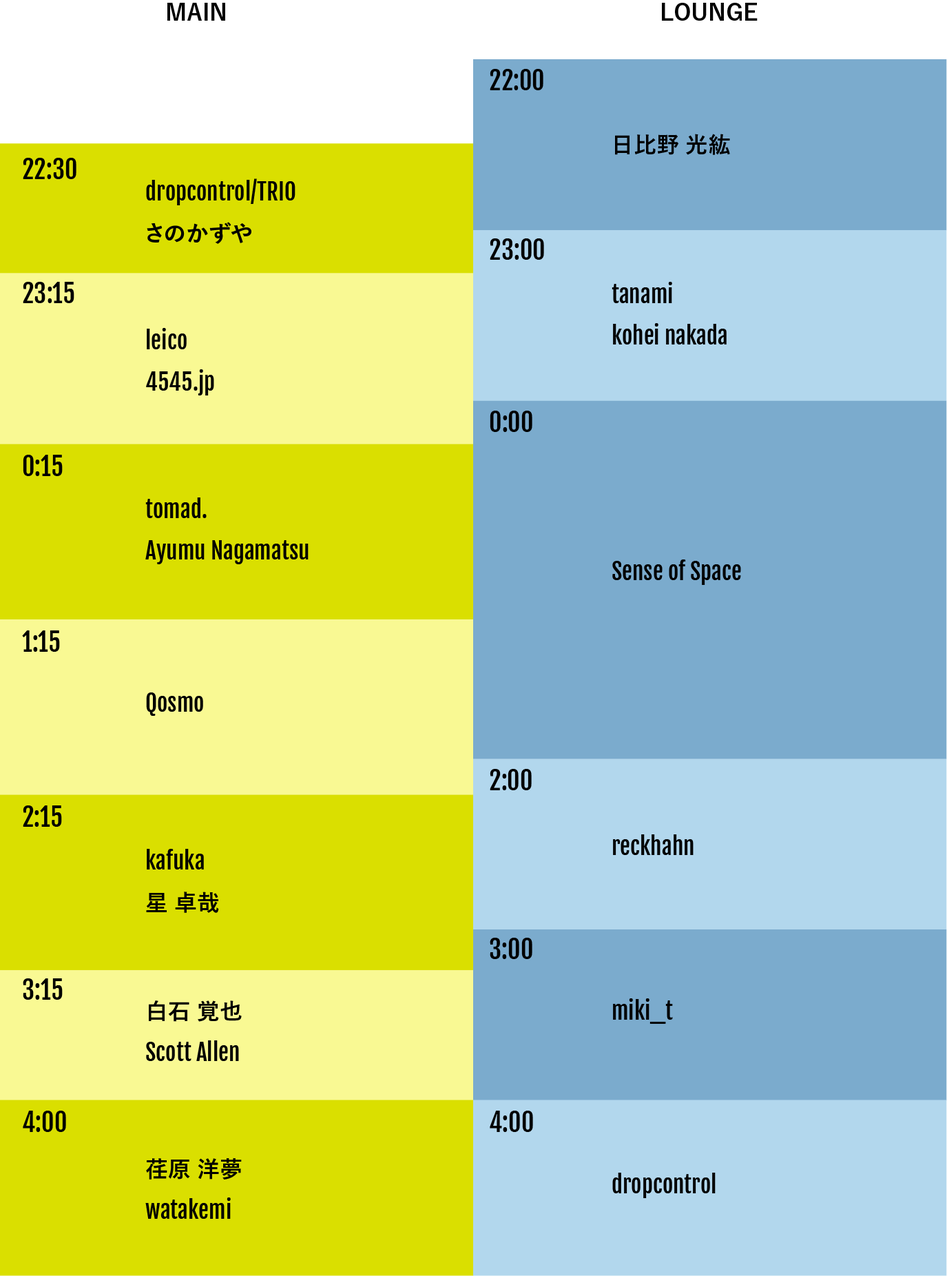
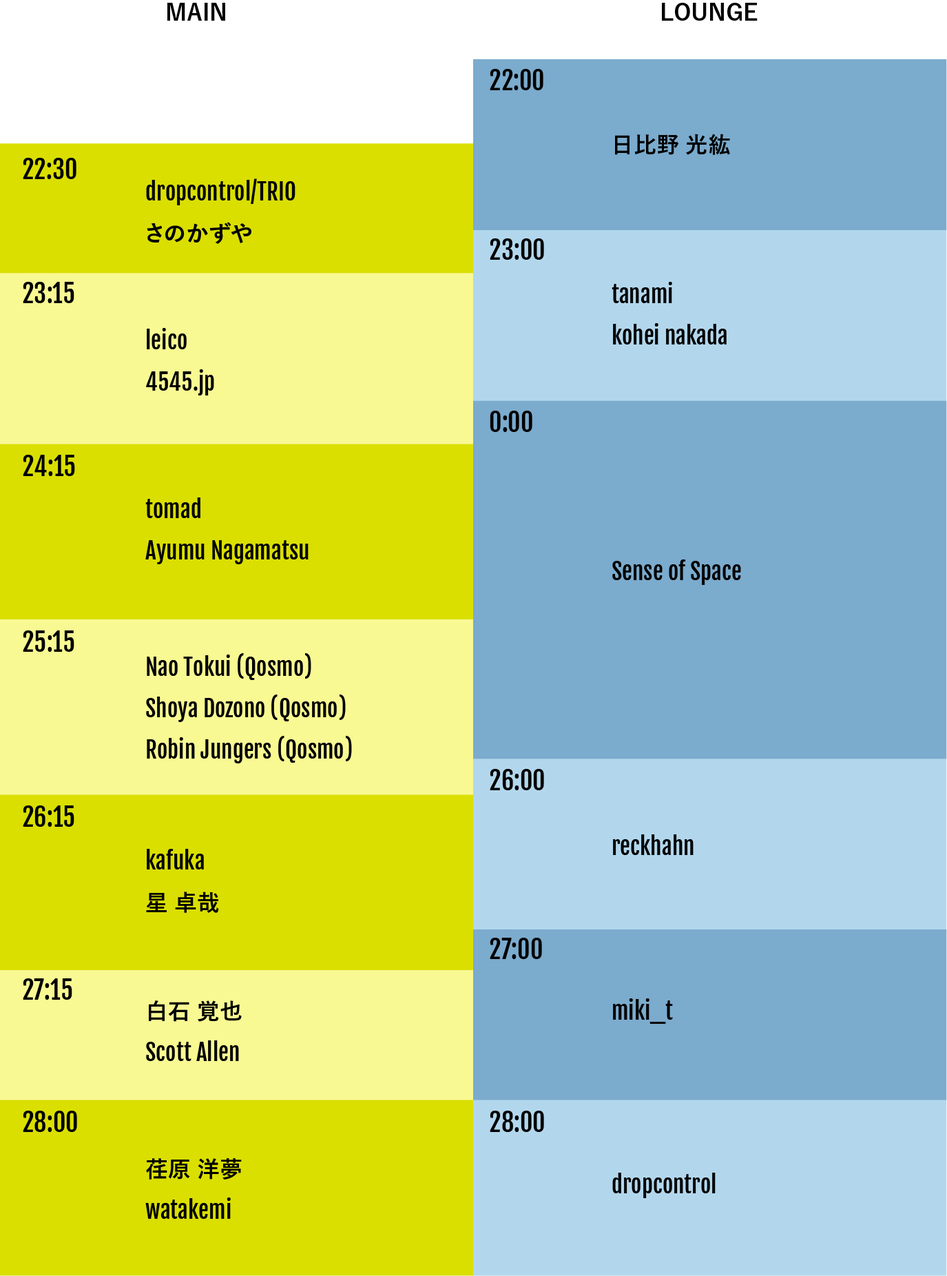
update static information.

diff --git a/src/assets/index.html b/src/assets/index.html
@@ -31,11 +31,6 @@
 <body>
 <header class="header">
   <div class="logo"><a href="http://nxpclab.info/" target="_blank"><img src="./images/logo.png" alt="NxPC.Lab"></a></div>
-  <div class="logo_20th">
-    <a href="http://www.iamas.ac.jp/20th/" target="_blank">
-      <img src="./images/logo_iamas20.png" alt="iamas 20th">
-    </a>
-  </div>
   <nav class="navi">
     <ul class="horlist">
       <li class="horlist__item"><a href="#1">Info</a></li>
@@ -46,7 +41,6 @@
   </nav>
 </header><!-- /header -->
 <main id="0" class="main">
-  <div id="gl-scene"></div>
   <section class="container box-toparea" id="toparea">
     <div class="titleimg">
       <img src="./images/title.svg">
@@ -57,19 +51,19 @@
       <h2>Info</h2>
       <div class="content">
         <h3>NxPC.Lab</h3>
-        <p>IAMAS 20周年記念イベントに関連して、NxPC.Liveをスペシャルエディションで開催。メインゲストにAOKI Takamasa、真鍋大度を迎え、その他IAMAS卒業生を中心に豪華出演者によるDJ、VJ、ライブパフォーマンスをお送りします。</p>
         <p>NxPC.Labは、クラブやイベントにおけるアーティストと観客の相互作用によってもたらされる場の臨場感を拡大し、ネットへも拡散させるためのメディアテクノロジーの実現を目指した研究機関です。音楽体験を拡張し、音楽空間におけるコミュニケーションを次のステージへ導くための研究開発と実践の場としてのイベントNxPC.Liveを実施しています。近年は、クラブのみならず、走行する列車内でイベントを展開するなど、その活動の場を拡大しています。</p>
+        <p>今回は、ゲストにAIを用いた多彩な表現を手がけるQosmoのDJ/VJ、インターネットレーベルMaltine Recordsを主催するtomad氏、IAMAS卒業生で国内外で活躍するビートメーカーのkafuka氏を迎えたラインナップ。加えて、IAMASの新入生や現役生、卒業生がライブ、DJ、VJ、会場デコなど多用な表現をクラブにインストールします。</p>
         <h3>Ticket</h3>
-        <p><strong>ADV:</strong>&yen; 2,000 [ <a claas="buy" href="http://peatix.com/event/240752" target="_blank">BUY</a> ]</p>
+        <p><strong>ADV:</strong>&yen; 2,000</p>
         <p><strong>DOOR:</strong>&yen; 2,500</p>
         <h3>Date / Time</h3>
-        <p><strong>Date:</strong>2017.3.11 sat</p>
+        <p><strong>Date:</strong>2018.3.20 Tue</p>
         <p><strong>Open:</strong>21:30<strong>Start:</strong>22:00<strong>Close:</strong>29:00</p>
         <h3>Place</h3>
         <p><strong>CIRCUS&nbsp;Tokyo</strong></p>
         <p>〒150-0002 東京都渋谷区渋谷3-26-16 第5叶ビル 1F,B1F<br>
-          TEL:<a href="tel:0364197520">03-6419-7520</a></p>
-        <p>WEB:<a href="http://circus-tokyo.jp/" target="_blank">http://circus-tokyo.jp/</a></p>
+          TEL: <a href="tel:0364197520">03-6419-7520</a></p>
+        <p>WEB: <a href="http://circus-tokyo.jp/" target="_blank">http://circus-tokyo.jp/</a></p>
         <h3>Social</h3>
         <ul class="sociallink">
           <li class="sociallink__item">
@@ -100,39 +94,43 @@
         <h2>Sound</h2>
         <ul>
           <li>
-            <div class="thumb"><img src="./images/thumb_aoki.png" alt="AOKI Takamasa"></div>
+            <div class="thumb"><img src="./images/thumb_naoto.jpg" alt="Nao Tokui (Qosmo)"></div>
             <div class="profile">
-              <h3>AOKI Takamasa</h3>
-              <p>1976年大阪府出身。現在は大阪在住。 Born in Osaka, 1976. Presently living in Osaka. RHYTHM + PHOTOGRAPHY
-                <a href="http://www.aokitakamasa.com" target="_blank">http://www.aokitakamasa.com</a></p>
+              <h3>Nao Tokui (Qosmo)</h3>
+              <p>DJ/メディアアーティスト. 人工知能の研究者というバックグラウンドを持ち、AIを用いたさまざまな表現に取り組む. 音楽面ではPROGRESSIVE FOrM, op.discなどのレーベルでの活動や故Nujabesとのコラボレーションで知られている.  近作にAI DJとのBack to Backを行うAI DJ Project, AIを用いたBrian Enoのミュージックビデオの制作など. Qosmo代表.<br>
+                <a href="http://www.naotokui.net/" target="_blank">http://www.naotokui.net/</a></p>
             </div>
           </li>
           <li>
-            <div class="thumb"><img src="./images/thumb_daito.png" alt="Daito Manabe"></div>
+            <div class="thumb"><img src="./images/thumb_tomad.jpg" alt="tomad"></div>
             <div class="profile">
-              <h3>Daito Manabe</h3>
-              <p>身近な現象や素材を異なる目線で捉え直し、組み合わせることで作品を制作。高解像度、高臨場感といったリッチな表現を目指すのでなく、注意深く観察することにより発見できる現象、身体、プログラミング、コンピュータそのものが持つ本質的な面白さに着目している。</p>
+              <h3>tomad</h3>
+              <p>2005年、当時15歳でインターネットレーベル「Maltine Records」を開始。これまでに150タイトルをリリース。同レーベルは、「The Japan Times」「MTV81」などの海外メディアでも紹介され、ダンスポップミュージックの新しいシーンと、東京の同時代のイメージを象徴する存在として注目されている。近年には、ニューヨークやロンドンでもイベントを開催し、海外アーティストの楽曲リリースも多数。2015年には設立10周年を記念し、レーベルの活動をまとめた「Maltine Book」（スイッチパブリッシング）を刊行。現在は、アパレルやアイドルとのコラボ、楽曲のリミックスプロデュース等も手がけている。</p>
             </div>
           </li>
           <li>
             <div class="thumb"><img src="./images/thumb_kafuka.png" alt="Kafuka"></div>
             <div class="profile">
-              <h3>Kafuka</h3>
-              <p class="fsmall">大阪を拠点に活動するビートメーカー。ギターサウンドや自然の音、サンプリング、音響プログラミングなども取りいれ 様々な音をコラージュしオリジナリティあるサウンドを表現。 エレクトロニック・ミュージックを軸に新たな表現や世界観を探究している。2016年に京都の電子音響実験音楽レーベル shrine.jp より多面的な表情が詰まった 音響作品、アルバム「Polyhedron」をリリース。2017年にはドイツ・ベルリンのレーベル Project:Mooncircle 15周年 コンピレー ションに参加。5月に同レーベルよりEP「Laws of Nature」のリリースが決まっている。また、NTT[ICC]でのサウンドインスタレーション作品の展示や、iPhoneアプリなどメディアを 用いた作品を展開する。</p>
+              <h3>kafuka</h3>
+              <p class="fsmall">大阪を拠点に活動するビートメーカー。ギターサウンドや自然の音、サンプリング、音響プログラミングなども取りいれ 様々な音をコラージュしオリジナリティあるサウンドを表現。エレクトロニック・ミュージックを軸に新たな表現や世界観を探究している。2016年に京都の電子音響実験音楽レーベル shrine.jp より多面的な表情が詰まった 音響作品、アルバム「Polyhedron」をリリース。2017年にはドイツ・ベルリンのレーベル Project Mooncircle 15周年 コンピレー ションに参加。5月に同レーベルよりEP「Laws of Nature」をリリース。世界各地各メディアより多大な反響を得る。また、NTT[ICC]でのサウンドインスタレーション作品の展示や、iPhoneアプリなどメディアを 用いた作品を展開する。今回のパフォーマンスではiPhoneアプリ"Sense of Space"を使ったAmbient楽曲もオープニングに演奏する。<br>
+                <a href="http://kafuka-music.com/" target="_blank">http://kafuka-music.com/</a><br>
+                <a href="http://nxpclab.info/SOS/" target="_blank">http://nxpclab.info/SOS/</a>
+              </p>
             </div>
           </li>
           <li>
-            <div class="thumb"><img src="./images/thumb_poison.png" alt="POISON"></div>
+            <div class="thumb"><img src="./images/thumb_dc3.png" alt="dropcontrol/TRIO"></div>
             <div class="profile">
-              <h3>POISON</h3>
-              <p>THEY ARE COMING BACK!!!  NxPC.labの初期メンバーとしてフロアを賑やかしていた「Drag Queen × Technology」ユニットが5年振りに再結成！ 愛の技術開発NIGHTをあなたと一緒にxoxo<br>POISON: キャシー(DQ)、マーサ・エストラゴン(DQ)、YOME(VJ)、Motoi Shimizu(Programming)</p>
+              <h3>dropcontrol/TRIO</h3>
+              <p>dropcontrolは大和比呂志によるex-Jazzプロジェクト。今回はDrumによしじまともひと、VJにさのかずやを向え、Drum, PC/Gt, VJの変則トリオで登場。<br>
+                <a href="http://nxpclab.info/SOS/" target="_blank">http://dropcontrol.com</a></p>
             </div>
           </li>
           <li>
-            <div class="thumb"><img src="./images/thumb_shiratori.png" alt="kei shiratori"></div>
+            <div class="thumb"><img src="./images/thumb_dc1.png" alt="dropcontrol"></div>
             <div class="profile">
-              <h3>kei shiratori</h3>
-              <p>東京工科大学メディア学部卒業、国際情報科学芸術アカデミー［IAMAS］DSPコース卒業。2012年「Matilde inc」を設立。心体の拡張をテーマに、先端技術を用いた作品を制作。人とメディアの可能性に注目し、音楽、映像、アプリケーション、プロダクト開発など幅広い分野で活動を行う。</p>
+              <h3>dropcontrol</h3>
+              <p>今回はメインではファーストオーダーでライブをやりますが、ラウンジで最後にDJもやります。いつものようにBPM併せフル無視で好きな曲を好きなように混ぜていきます。最後はたぶんカールストーンとドラムのマッシュアップで蛍の光の代りに。</p>
             </div>
           </li>
           <li>
@@ -141,10 +139,9 @@
               <h3>leico</h3>
               <p>
                 <a href="http://leico.github.io" target="_blank">http://leico.github.io</a><br>
-                <a href="https://cycling74.com/author/58260/" target="_blank">https://cycling74.com/author/58260/</a><br>
-                <a href="http://rittor-music.jp/sound/magazine/max/62913" target="_blank">http://rittor-music.jp/sound/magazine/max/62913</a><br>
+                <a href="https://leico.github.io/TechnicalNote/" target="_blank">https://leico.github.io/TechnicalNote/</a><br>
                 <a href="http://www.maxforlive.com/profile/user/leico" target="_blank">http://www.maxforlive.com/profile/user/leico</a><br>
-                <a href="https://twitter.com/1_0101" target="_blank">twitter:1_0101</a>
+                事前にすべてプログラムしてしまって、それを流すのでもよいのではなかろうかという問いは、しかし我々はジュークボックスを聴きにクラブに行くわけではないという結論に達した。
                 </p>
             </div>
           </li>
@@ -152,58 +149,37 @@
             <div class="thumb"><img src="./images/thumb_reck.png" alt="reckhahn"></div>
             <div class="profile">
               <h3>reckhahn</h3>
-              <p>1987年韓国生まれ。大学で彫刻を専攻。情報科学芸術大学院大学(IAMAS)修了後、慶應義塾大学SFC博士課程在学中。</p>
+              <p>情報科学芸術大学院大学(IAMAS)修了後、慶應義塾大学SFC博士課程在学中。アナログメディアよるフィジカルインタラクションの研究を行っている。</p>
             </div>
           </li>
           <li>
-            <div class="thumb"><img src="./images/thumb_mikit.png" alt="miki_t"></div>
+            <div class="thumb"><img src="./images/thumb_mikit.jpg" alt="miki_t"></div>
             <div class="profile">
               <h3>miki_t</h3>
-              <p>IAMAS第14期生。<br>
+              <p>IAMAS第14期生。現在はデザイナとして東京を拠点に就労中。フロアをデザインするDJをします。<br>
                 <a href="http://mikingt.net/" target="_blank">http://mikingt.net/</a></p>
             </div>
           </li>
           <li>
-            <div class="thumb"><img src="./images/thumb_okubo.png" alt="大久保雅基"></div>
+            <div class="thumb"><img src="./images/thumb_ehara.jpg" alt="荏原洋夢"></div>
             <div class="profile">
-              <h3>大久保雅基</h3>
-              <p>1988年宮城県仙台市出身。洗足学園音楽大学音楽・音響デザインコース卒業、情報科学芸術大学院大学メディア表現研究科修士課程修了。電子音楽の作曲家。テクノロジーと人の関係性によって生まれる音楽を探求している。CCMC2010にてACSM116賞受賞。Musica Viva Festival 2010/2013、MUSLAB2015、ISEA2015、第22回学生CGコンテスト等に入選。</p>
+              <h3>荏原洋夢</h3>
+              <p>工事現場の旗を降るLEDマトリックスの気持ち</p>
             </div>
           </li>
           <li>
-            <div class="thumb"><img src="./images/thumb_quintet.png" alt="dropcontrol/QUINTET"></div>
+            <div class="thumb"><img src="./images/thumb_mitsu.jpg" alt="日比野光紘"></div>
             <div class="profile">
-              <h3>dropcontrol/QUINTET</h3>
-              <p>大和比呂志(ギタリスト、テナーサックス奏者、音楽家。現在IAMASに在学。三輪眞弘に師事しポリ/クロスリズムに着目した研究を進めている)主催のex-Jazzバンド。今回はfeat. ベース永松歩、ドラムよしじまともひと、テナーサックス塙健介、アルトサックス津上研太を迎えてクインテットで編成。<br>
-                <a href="http://www.dropcontrol.com/" target="_blank">http://www.dropcontrol.com/</a></p>
+              <h3>日比野光紘</h3>
+              <p>岐阜県出身、現在IAMASの修士1年。組み込みエンジニアとしてラップトップをカタカタしながら、細々とポップスやベースミュージックを布教する活動をしています。岐阜でくすぶっている心を渋谷で解き放ちたい！どうぞ宜しくお願い致します。<br>
+                website: <a href="http://nasustim.com" target="_blank">http://nasustim.com</a></p>
             </div>
           </li>
           <li>
-            <div class="thumb"><img src="./images/thumb_yuzawa.png" alt="Taiki YUZAWA"></div>
+            <div class="thumb"><img src="./images/thumb_mtana.jpg" alt="tanami"></div>
             <div class="profile">
-              <h3>Taiki YUZAWA</h3>
-              <p>Play Electronica Music.</p>
-            </div>
-          </li>
-          <li>
-            <div class="thumb"><img src="./images/thumb_sanokazuya.png" alt="さのかずや"></div>
-            <div class="profile">
-              <h3>さのかずや</h3>
-              <p>ちょうど20周年の卒業生として、キラキラな諸先輩方の前座を務めさせて頂きます。目指せ信長、時代の勇者。40周年に呼ばれるように頑張っていきたい。</p>
-            </div>
-          </li>
-          <li>
-            <div class="thumb"><img src="./images/thumb_oshima.png" alt="おおしまたくろう"></div>
-            <div class="profile">
-              <h3>おおしまたくろう</h3>
-              <p>「PLAY（遊ぶ、演奏する、演じる、協力する...）」をテーマに身近な道具を改変した自作楽器を制作。音楽や楽器の名を借りたユーモアや遊びによる少し不思議なサウンドパフォーマンスを通して、日常や表現行為の中で「失敗」とされるもの（逸脱、ノイズ、障害...）の存在を肯定する。</p>
-            </div>
-          </li>
-          <li>
-            <div class="thumb"><img src="./images/thumb_sugi.png" alt="木ミ"></div>
-            <div class="profile">
-              <h3>木ミ</h3>
-              <p>CLUB308 / 大垣ナンヤッターッケ の一員改め、DJ Without Abstruct による鬼のトラックパッドDJ</p>
+              <h3>tanami</h3>
+              <p>IAMAS M1 　26歳にして初DJ　頑張ります。 大学にてprocessingやopenframeworksなどを用いた映像表現を模索。卒業後、広告代理店で営業に従事し、2017年IAMAS入学。</p>
             </div>
           </li>
         </ul>
@@ -212,31 +188,17 @@
         <h2>Visual</h2>
         <ul>
           <li>
-            <div class="thumb"><img src="./images/thumb_hori.png" alt="堀井哲史"></div>
+            <div class="thumb"><img src="./images/thumb_hoshi.png" alt="星卓哉"></div>
             <div class="profile">
-              <h3>堀井哲史</h3>
-              <p class="fsmall">ビジュアルアーティスト/プログラマ。ライゾマティクス所属。東京造形大学デザイン学科、国際情報科学芸術アカデミー［IAMAS］DSPコース卒。 既存のソフトウェアやツールに頼らない、コンピュータならではの動的な絵作りを着想からプログラミングまで一貫して行い、インタラクティヴ作品、映像制作を、エンターテインメント、アート等様々なフィールドで行っている。プログラミング/デザインを担当した『Perfume Global Site Project』は 第16回文化庁メディア芸術祭エンターテイメント部門大賞、カンヌ国際広告祭等多数受賞。また、2015年ミラノ万博日本館シーン5の展示テクニカルディレクションを担当するなど、形態にとらわれない制作活動している。</p>
+              <h3>星卓哉</h3>
+              <p>コンピュータを用いた表現の本質をプログラミングによる使役と捉え、 とりわけ、リアルタイム、動的生成に重きを置いた表現を行う。近年は、クリエイティブ・コーディングにおける、フレームワークや制作環境の一般化、標準化により引き起こされる表現のコモディティーに対し、表現の本質とは何かを考え、常に逸脱した態度で臨むことを信条としている。</p>
             </div>
           </li>
           <li>
-            <div class="thumb"><img src="./images/thumb_motoi.png" alt="清水 基"></div>
+            <div class="thumb"><img src="./images/thumb_sano.jpg" alt="さのかずや"></div>
             <div class="profile">
-              <h3>清水 基</h3>
-              <p>IAMAS DSPコース卒業、School for Poetic Computation 第1期生。IT系企業数社に務めた後、2015年よりプロダクションチーム backspacetokyo を共同主催。コーディングカルチャーに根ざした表現に従事している。</p>
-            </div>
-          </li>
-          <li>
-            <div class="thumb"><img src="./images/thumb_hoshi.png" alt="星 卓哉"></div>
-            <div class="profile">
-              <h3>星 卓哉</h3>
-              <p class="fsmall">蔵人／プログラマ。玉村本店所属。情報科学芸術大学院大学［IAMAS］修了。コンピュータを用いた表現の本質をプログラミングによる使役と捉え、リアルタイム、動的生成に重きを置いた表現を行う。近年は、クリエイティブ・コーディングにおける制作環境の標準化により引き起こされる表現のコモディティ化に対し、表現の本質を問い直し、常に逸脱した態度で臨むことを信条としてきた。現在は一念発起し杜氏を目指して修行中。</p>
-            </div>
-          </li>
-          <li>
-            <div class="thumb"><img src="./images/thumb_noriko.png" alt="noriko matsumoto"></div>
-            <div class="profile">
-              <h3>noriko matsumoto</h3>
-              <p>1980年1月京都生まれ　舞台や広告などで、映像エンジニア/プログラマーとして活動。現在は育休がてらTokyo No1 Geek Momとして、キッチンプログラマー活動中</p>
+              <h3>さのかずや</h3>
+              <p>そろそろ出演者紹介欄にポエムを書くのも痛々しい年齢になってきました。</p>
             </div>
           </li>
           <li>
@@ -247,32 +209,31 @@
             </div>
           </li>
           <li>
-            <div class="thumb"><img src="./images/thumb_ayumu.png" alt="Ayumu Nagamatsu"></div>
+            <div class="thumb"><img src="./images/thumb_nagat.jpg" alt="Ayumu Nagamatsu"></div>
             <div class="profile">
               <h3>Ayumu Nagamatsu</h3>
-              <p>リアルタイム生成のVJ/作品制作をおこなう。線や点のみのプリミティブな表現に注力。<br>
-                <a href="http://ayumu-nagamatsu.com" target="_blank">http://ayumu-nagamatsu.com</a></p>
+              <p>現在、職を募集している。 <a href="https://ayumu-nagamatsu.com/" target="_blank">https://ayumu-nagamatsu.com</a>/</p>
             </div>
           </li>
           <li>
-            <div class="thumb"><img src="./images/thumb_megane.png" alt="めがね&ボブ"></div>
+            <div class="thumb"><img src="./images/thumb_watakemi.png" alt="watakemi"></div>
             <div class="profile">
-              <h3>めがね&amp;ボブ</h3>
-              <p>映像とプログラムを融合したVJをします。もう１年以上めがねはコンタクトをし、ボブはロングになっています。</p>
+              <h3>watakemi</h3>
+              <p>1993年京都府生まれ、早稲田大学創造理工学部総合機械工学科卒業、IAMAS卒業。京都千葉神戸アメリカ東京岐阜を転々としている走り出しVJ。多端末制御を卒業して何をしようか迷走。走りたい。</p>
             </div>
           </li>
           <li>
             <div class="thumb"><img src="./images/thumb_4545.png" alt="4545.jp"></div>
             <div class="profile">
               <h3>4545.jp</h3>
-              <p>大垣行こうムーンライトながら</p>
+              <p>吾輩わがはいはインターネットを生きる猫である。名前はまだ無い。どこで生れたかとんと見当けんとうがつかぬ。何でも薄暗いじめじめした所でニャーニャー泣いていた事だけは記憶している。最近はVJとかする。</p>
             </div>
           </li>
           <li>
-            <div class="thumb"><img src="./images/thumb_eat.png" alt="eat"></div>
+            <div class="thumb"><img src="./images/thumb_nakada.jpg" alt="kohei nakada"></div>
             <div class="profile">
-              <h3>eat</h3>
-              <p>三重県生まれ。観客の位置情報をリアルタイムに映像に反映する参加型VJを試みている。雀が好き。</p>
+              <h3>kohei nakada</h3>
+              <p>4月からIAMAS岐阜の民、入学前からやたら入り浸ってました。ライブコーディングVJやります。よろしくお願いします。</p>
             </div>
           </li>
         </ul>
@@ -288,24 +249,17 @@
             </div>
           </li>
           <li>
-            <div class="thumb"><img src="./images/thumb_watakemi.png" alt="watakemi"></div>
+            <div class="thumb"><img src="./images/thumb_ioto.png" alt="ioto"></div>
             <div class="profile">
-              <h3>watakemi</h3>
-              <p>1993年7月京都府生まれ、早稲田大学創造理工学部総合機械工学科卒業、情報科学芸術大学院大学[IAMAS]在学。京都千葉神戸アメリカ東京岐阜を転々としている走り出しVJ。iPod Touch数十台をVJのように制御するVJとデコの狭間を走る。走りたい。</p>
+              <h3>ioto</h3>
+              <p>東京での建築と写真の仕事を経て岐阜に流れ着いた結果、コオロギを食べながらフライスぐるぐる回して半田付けする日々を過ごしています。みなさんとズットモになりたい！</p>
             </div>
           </li>
           <li>
-            <div class="thumb"><img src="./images/thumb_hamada.png" alt="hamadayaro"></div>
+            <div class="thumb"><img src="./images/thumb_iij.jpg" alt="Sho Iijima"></div>
             <div class="profile">
-              <h3>hamadayaro</h3>
-              <p>1993年東京都生まれ、日本大学理工学部建築学科卒業、情報科学芸術大学院大学(IAMAS)在学。LEDを利用した自由自在な空間演出 [ noraLED ] として活動を行う。今回のイベントでもnoraLED(500個くらい？)します。</p>
-            </div>
-          </li>
-          <li>
-            <div class="thumb"><img src="./images/thumb_ioto.png" alt="ioto/LUM"></div>
-            <div class="profile">
-              <h3>ioto/LUM</h3>
-              <p>情報科学芸術大学院大学(IAMAS)在学　東京での建築と写真の仕事を経て岐阜に流れ着いた結果、コオロギを食べながらフライスぐるぐる回して半田付けする日々を過ごしています。みなさんとズットモになりたい！</p>
+              <h3>Sho Iijima</h3>
+              <p>センシングを通じた音楽体験の拡張を試みる。今回はウェアラブルなセンサーデバイスの設計に携わる。</p>
             </div>
           </li>
         </ul>
@@ -320,14 +274,9 @@
         <h3>Sense of Space<span>(kafuka/hrr)</span></h3>
         <p>kafukaの演奏に含まれる高可聴域音IDに反応して
           会場内に配置されたスピーカから音楽が流れることで、
-          新たな音響空間が作られます。</p>
-        <h3>NxPC.SenStick<span>(hrr/matilde)</span></h3>
-        <p>BLEセンサーデバイスSenStick をアーティスト、観客などへの装着と会場への設置により
-          モーションデータ、環境データを取得します。
-          これらのデータは、会場デコレーションの動きや映像へ反映されることで、臨場感へと還元されます。
-          これらの各種データは今後継続的に取得していく予定です。</p>
-        <h3>VR配信<span>(Gooco. / anostudio)</span></h3>
-        <p>全天球カメラRICOH R Development Kit を複数台用いたVR配信を行います。（協力：RICOH）</p>
+          新たな音響空間が作られます。<br>
+          <a href="http://nxpclab.info/SOS/" target="_blank">http://nxpclab.info/SOS/</a>
+        </p>
       </div>
     </div>
   </section>
